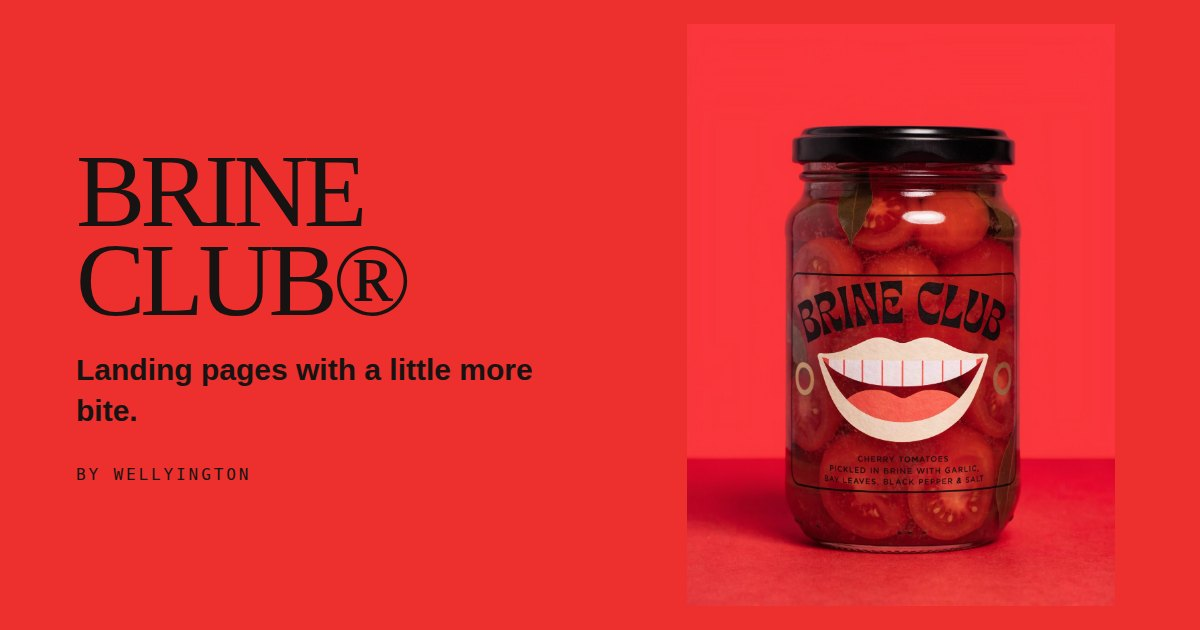
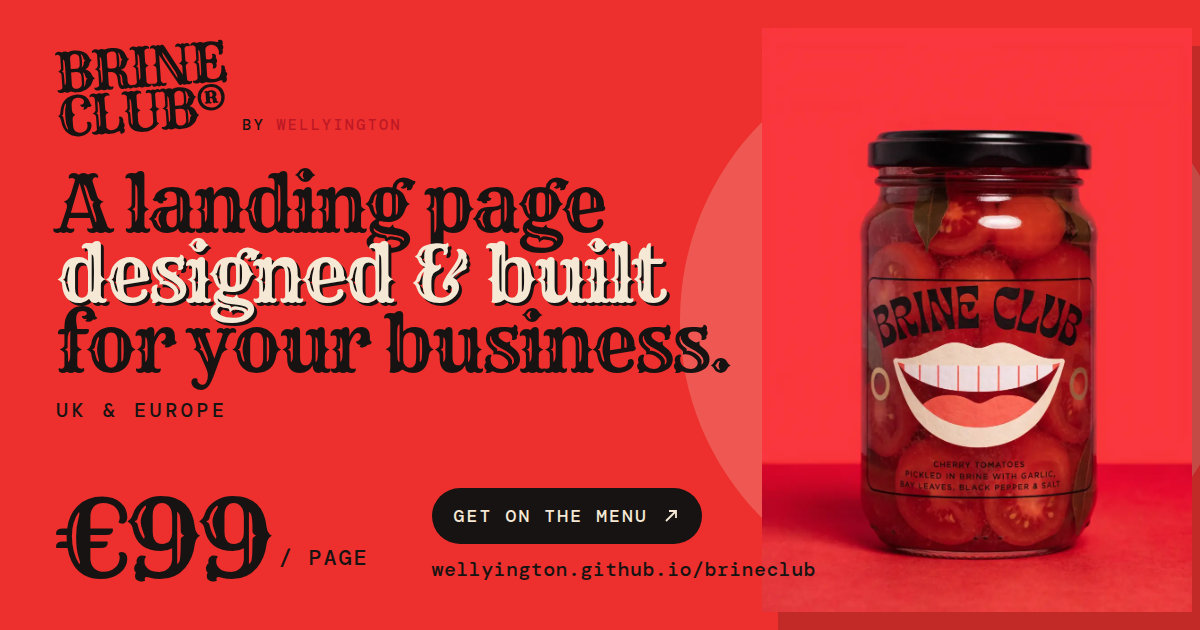
Add a Brine Club share card and the site analytics tag. (#7)
The 1200 by 630 card uses the page's own wording, the €99 price, and the Get on the menu line. Analytics was missing on this page, so the same GA4 tag as the main site is now in the head.

diff --git a/brineclub/og-card.html b/brineclub/og-card.html
@@ -1,0 +1,71 @@
+<!doctype html>
+<html lang="en">
+<head>
+<meta charset="utf-8">
+<meta name="robots" content="noindex">
+<title>Brine Club social card</title>
+<style>
+@font-face{font-family:"DM Sans";font-style:normal;font-weight:400 700;font-display:block;src:url("fonts/dm-sans-latin.woff2") format("woff2")}
+@font-face{font-family:"DM Mono";font-style:normal;font-weight:500;font-display:block;src:url("fonts/dm-mono-500-latin.woff2") format("woff2")}
+@font-face{font-family:"Rye";font-style:normal;font-weight:400;font-display:block;src:url("fonts/rye-latin.woff2") format("woff2")}
+*{box-sizing:border-box;margin:0;padding:0}
+html,body{width:1200px;height:630px;overflow:hidden;background:#ed302d}
+.card{
+  width:1200px;height:630px;position:relative;overflow:hidden;
+  background:#ed302d;color:#171312;
+  font-family:"DM Sans",sans-serif;
+}
+.card:before{
+  content:"";position:absolute;right:-40px;top:40px;width:560px;height:560px;border-radius:50%;
+  background:#f5e9d5;opacity:.22;
+}
+.copy{position:relative;z-index:2;height:100%;padding:52px 56px 48px;display:flex;flex-direction:column}
+.brand{display:flex;align-items:flex-end;gap:16px}
+.logo{font:54px/0.82 "Rye",Georgia,serif;letter-spacing:-.06em;transform:rotate(-4deg);transform-origin:left center}
+.by{font:15px "DM Mono",monospace;letter-spacing:.16em;text-transform:uppercase;padding-bottom:6px}
+.by b{font-weight:500;color:#bd1825}
+h1{margin-top:28px;font:78px/0.9 "Rye",Georgia,serif;letter-spacing:-.045em;max-width:760px}
+h1 em{font-style:normal;color:#f5e9d5;text-shadow:3px 3px 0 #171312}
+.where{margin-top:18px;font:20px "DM Mono",monospace;letter-spacing:.18em;text-transform:uppercase}
+.foot{margin-top:auto;display:flex;align-items:flex-end;justify-content:space-between;gap:28px;max-width:760px}
+.price{display:flex;align-items:flex-end;gap:10px}
+.price strong{font:108px/0.8 "Rye",Georgia,serif;letter-spacing:-.05em}
+.price span{font:22px "DM Mono",monospace;letter-spacing:.08em;text-transform:uppercase;padding-bottom:10px}
+.ask{display:flex;flex-direction:column;align-items:flex-start;gap:12px}
+.cta{
+  display:inline-flex;align-items:center;gap:14px;
+  background:#171312;color:#f5e9d5;border-radius:999px;
+  padding:16px 22px;font:18px "DM Mono",monospace;letter-spacing:.12em;text-transform:uppercase;
+}
+.cta svg{display:block}
+.url{font:20px "DM Mono",monospace;letter-spacing:.02em}
+.jar{
+  position:absolute;z-index:1;right:8px;top:18px;width:430px;height:594px;
+  display:flex;align-items:flex-end;justify-content:center;
+}
+.jar img{width:100%;height:100%;object-fit:contain;object-position:center bottom;filter:drop-shadow(16px 18px 0 #17131233)}
+</style>
+</head>
+<body>
+<div class="card">
+  <div class="copy">
+    <div class="brand">
+      <div class="logo">BRINE<br>CLUB®</div>
+      <div class="by">By <b>Wellyington</b></div>
+    </div>
+    <h1>A landing page<br><em>designed &amp; built</em><br>for your business.</h1>
+    <p class="where">UK &amp; Europe</p>
+    <div class="foot">
+      <div class="price"><strong>€99</strong><span>/ page</span></div>
+      <div class="ask">
+        <div class="cta">Get on the menu
+          <svg width="18" height="18" viewBox="0 0 18 18" aria-hidden="true"><path d="M4 14 L14 4 M7 4 H14 V11" fill="none" stroke="#f5e9d5" stroke-width="1.8"/></svg>
+        </div>
+        <div class="url">wellyington.github.io/brineclub</div>
+      </div>
+    </div>
+  </div>
+  <div class="jar"><img src="brine-club-jar-960.webp" alt=""></div>
+</div>
+</body>
+</html>

diff --git a/brineclub/index.html b/brineclub/index.html
@@ -2,6 +2,13 @@
 <html lang="en">
 <head>
 <meta charset="utf-8"><meta name="viewport" content="width=device-width,initial-scale=1"><meta name="theme-color" content="#ed302d">
+<script async src="https://www.googletagmanager.com/gtag/js?id=G-4XBY16BPLY"></script>
+<script>
+  window.dataLayer = window.dataLayer || [];
+  function gtag(){dataLayer.push(arguments);}
+  gtag('js', new Date());
+  gtag('config', 'G-4XBY16BPLY');
+</script>
 <title>Landing page design, UK &amp; Europe | Brine Club</title>
 <meta name="description" content="Landing page design and web development for the UK and Europe, remote from Estepona. By Wellyington. A custom page from €99. Hosting is not included.">
 <link rel="preload" href="fonts/rye-latin.woff2" as="font" type="font/woff2" crossorigin>
@@ -20,12 +27,12 @@
 <meta property="og:image:width" content="1200">
 <meta property="og:image:height" content="630">
 <meta property="og:image:type" content="image/jpeg">
-<meta property="og:image:alt" content="BRINE CLUB® by Wellyington: a jar of cherry tomatoes beside the line landing pages with a little more bite.">
+<meta property="og:image:alt" content="Brine Club: a landing page designed and built for your business in the UK and Europe, €99 a page. Get on the menu at wellyington.github.io/brineclub.">
 <meta name="twitter:card" content="summary_large_image">
 <meta name="twitter:title" content="Landing page design, UK &amp; Europe | Brine Club">
 <meta name="twitter:description" content="Landing page design and web development for the UK and Europe, remote from Estepona. By Wellyington. A custom page from €99. Hosting is not included.">
 <meta name="twitter:image" content="https://wellyington.github.io/brineclub/og-image.jpg">
-<meta name="twitter:image:alt" content="BRINE CLUB® by Wellyington: a jar of cherry tomatoes beside the line landing pages with a little more bite.">
+<meta name="twitter:image:alt" content="Brine Club: a landing page designed and built for your business in the UK and Europe, €99 a page. Get on the menu at wellyington.github.io/brineclub.">
 <script type="application/ld+json">
 {
   "@context": "https://schema.org",
